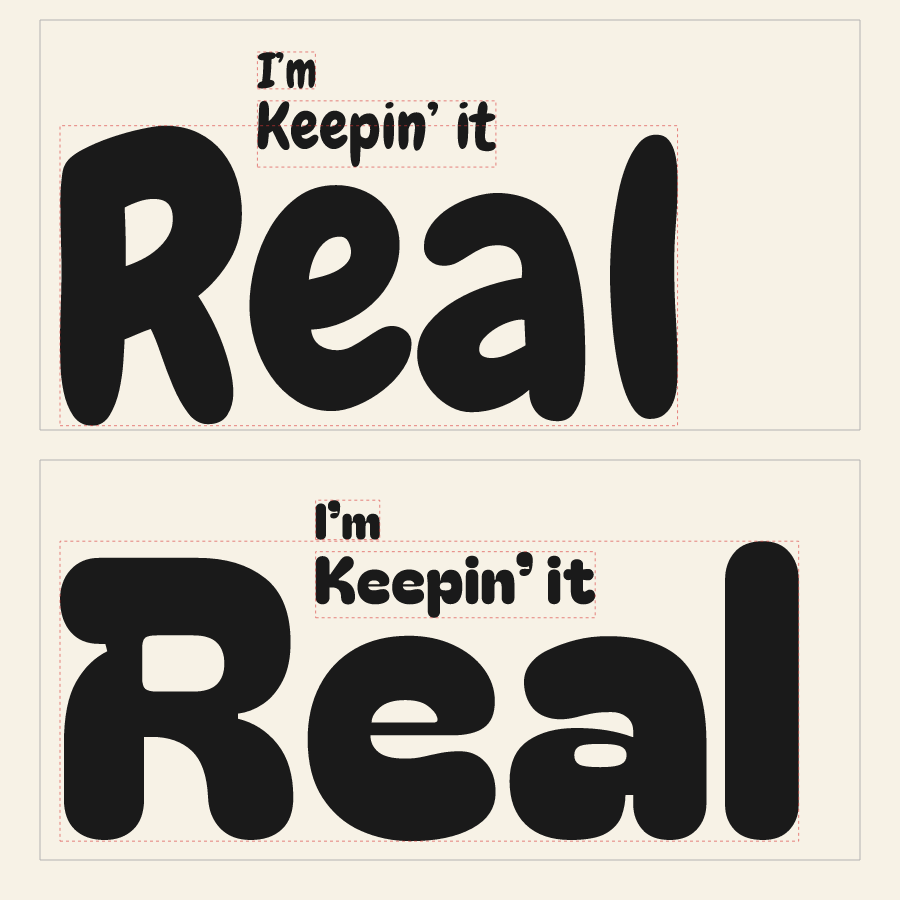
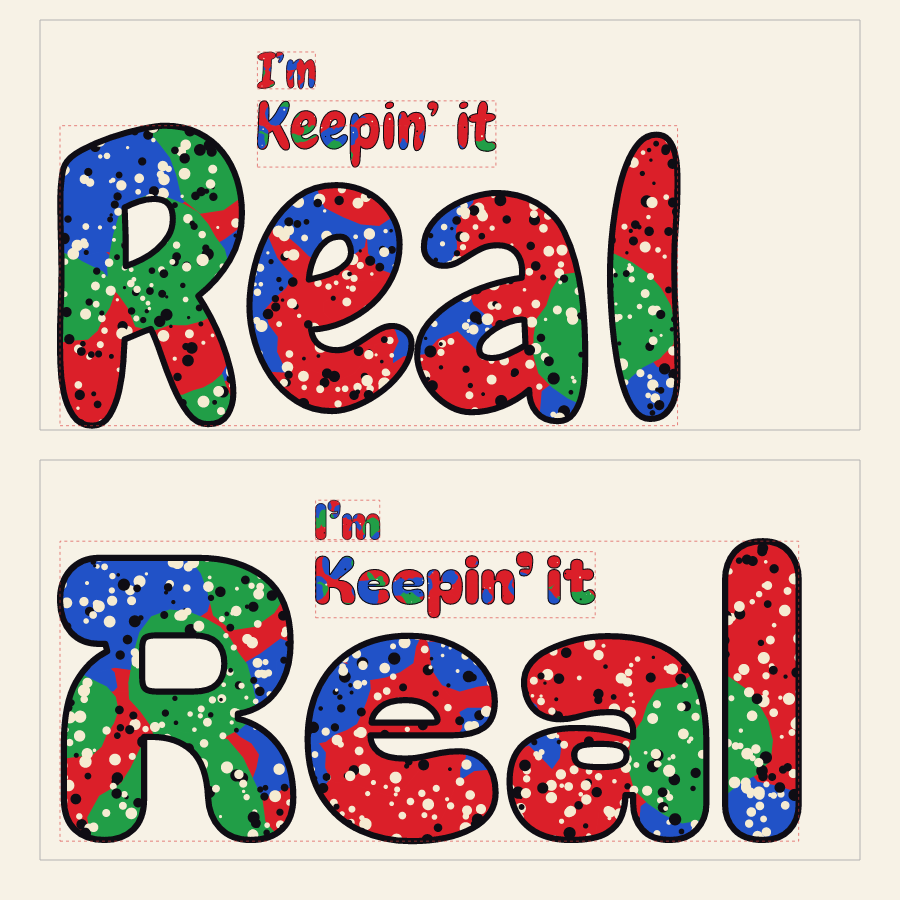
Render specimen through psyletter, add reference crop, apostrophe/family tests (issue #155)
Claude-Session: https://claude.ai/code/session_01SFgfFhMnwzjwoHiX1AAgsb

diff --git a/tests/groovy_faces.rs b/tests/groovy_faces.rs
@@ -44,6 +44,27 @@ fn faces_resolve_by_stem_and_are_not_type3() {
             "findfont substituted for {face}"
         );
         assert_ne!(ty.repr(), "3", "{face} must be an outline face");
+
+        // The family name must resolve through the `-Regular` fallback,
+        // and the apostrophe glyph must exist (a missing quoteright would
+        // still pass an ink count from the other letters).
+        let family = face.split('-').next().unwrap();
+        it.run_str(&format!(
+            "/{family} findfont /FontName get /{face} findfont 100 scalefont setfont \
+             (') stringwidth pop"
+        ))
+        .unwrap_or_else(|e| panic!("{face}: {}", it.error_report(&e)));
+        let w = it.pop().expect("width");
+        let fam = it.pop().expect("family FontName");
+        assert_eq!(
+            fam.repr(),
+            format!("/{face}"),
+            "family fallback for {family}"
+        );
+        assert!(
+            w.repr().parse::<f64>().unwrap_or(0.0) > 0.0,
+            "{face}: no apostrophe"
+        );
     }
 }
 
@@ -64,18 +85,21 @@ fn hllayout_tucks_shirt_front_in_each_face() {
     for face in FACES {
         let mut it = with_libs();
         it.run_str(&format!(
-            "/lay [ 20 20 580 380 ] [
-               << /Name /real /Text (Real) /Font /{face} /FitBox [ 500 200 ] /At [ 40 40 ] >>
-               << /Name /keep /Text (Keepin' it) /Font /{face} /SizeOf [ /real 0.17 ]
+            "/lettered {{ /ls exch def
+               << /Font /{face} /Size ls /Align /left /Treatment /mottled /Seed 7 >>
+               psyletter }} def
+             /lay [ 20 20 580 380 ] [
+               << /Name /real /Text (Real) /Font /{face} /Draw {{ lettered }} /FitBox [ 500 200 ] /At [ 40 40 ] >>
+               << /Name /keep /Text (Keepin' it) /Font /{face} /Draw {{ lettered }} /SizeOf [ /real 0.17 ]
                   /At << /To /real /Chars [ 1 3 ] /H 0 /V 1 >>
                   /Anchor [ /left /bottom ] /Offset [ 8 18 ]
                   /Avoid [ [ /real 0 1 ] [ /real 1 3 ] [ /real 3 4 ] ] /Clearance 10 >>
-               << /Name /im /Text (I'm) /Font /{face} /SizeOf [ /keep 0.75 ]
+               << /Name /im /Text (I'm) /Font /{face} /Draw {{ lettered }} /SizeOf [ /keep 0.75 ]
                   /At << /To /keep /H 0 /V 1 >>
                   /Anchor [ /left /bottom ] /Offset [ 0 12 ]
                   /Avoid [ /keep [ /real 0 1 ] [ /real 1 3 ] [ /real 3 4 ] ] /Clearance 10 >>
              ] hllayout def
-             0 setgray lay hldraw"
+             lay hldraw"
         ))
         .unwrap_or_else(|e| panic!("{face}: {}", it.error_report(&e)));
         assert!(ink(&it) > 5000, "{face}: layout drew almost nothing");

diff --git a/HANDOFF.md b/HANDOFF.md
@@ -320,7 +320,7 @@ config dict -> per-piece front/back/optional sleeve artwork), `examples/
 apparel_shirt.ps` + `apparel_second.ps`, `scripts/apparel_export.sh` (finished shirt art, issue #147: `examples/keepin_it_real_shirt.ps`, `art/keepin-it-real/`, `docs/keepin_it_real_shirt.md`)
 (PNG/SVG/PDF + manifest + proof), and the new `--transparent` flag (PNG
 alpha / SVG without backdrop). Details and the observed pre-fix
-transparency behaviour in NOTES.md. Next in this thread: #147 (the actual
+transparency behaviour in NOTES.md. Next in this thread (#155 landed: `/Chewy-Regular`, `/BagelFatOne-Regular`, see docs/groovy_font_choice.md): #147 (the actual
 shirt) is now just a config.
 Also done: issue #145, headline composition helpers — `lib/headline.ps`
 (`@requires: (lib/artkit.ps) run`, tag-migrated): `hllayout` places a

diff --git a/NOTES.md b/NOTES.md
@@ -10,7 +10,10 @@ Two rounded 60s/70s catalog faces for the shirt's `Real` lettering: Chewy
 heavier). Chosen by eye from 20 candidates; the photo does not identify the
 original font, so the choice is flagged for review. Rationale, sheets and
 licences in `docs/groovy_font_choice.md`; specimen `examples/groovy_faces.ps`;
-`tests/groovy_faces.rs`. No Rust changes.
+`tests/groovy_faces.rs`. No Rust changes. Bagel Fat One's TTF is 1.5 MB (it carries a
+large Korean glyph set; still loaded lazily, nothing in the binary). Not added to
+`examples/font_catalog.ps`: page 2 is at its documented 40-cell capacity, so
+`examples/groovy_faces.ps` is their specimen.
 
 ## Keepin' It Real shirt artwork (issue #147, 2026-09-28)
 

diff --git a/docs/groovy_font_choice.md b/docs/groovy_font_choice.md
@@ -14,6 +14,12 @@ leg that flares outward, `e` with a slanted crossbar, single-storey-feel
 `a`, and an `l` whose top is cut at a slant. Heavy, but with visible
 counters. Thin dark outline. (Mixed case: `Real`, not `REAL`.)
 
+## Reference vs finalists
+
+| Original shirt (cropped photo) | Finalists: Gorditas, Bagel Fat One, Chewy, Kavoon |
+|---|---|
+| ![shirt front](fonts/reference-front.png) | ![finalists](fonts/groovy-finalists.png) |
+
 ## Candidates (20 rendered)
 
 `fonts/groovy-candidates.png`: `Real` and `I'm Keepin' it Real` in Caprasimo,
